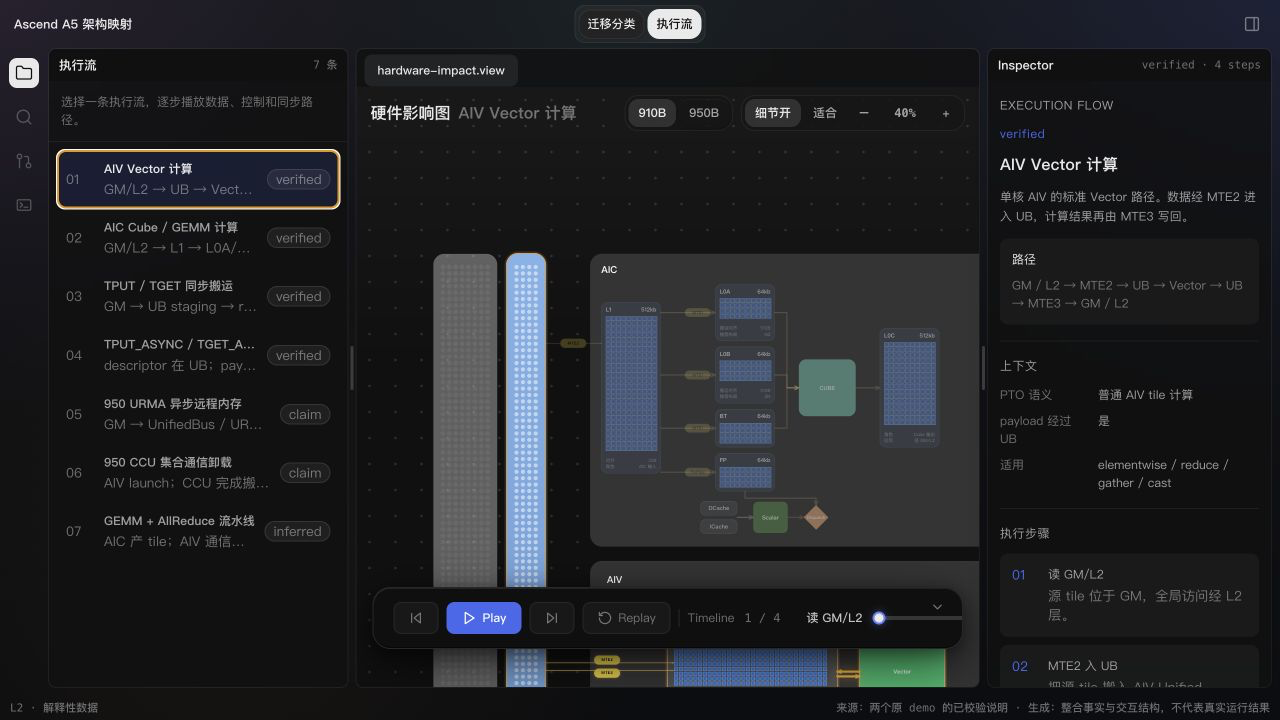
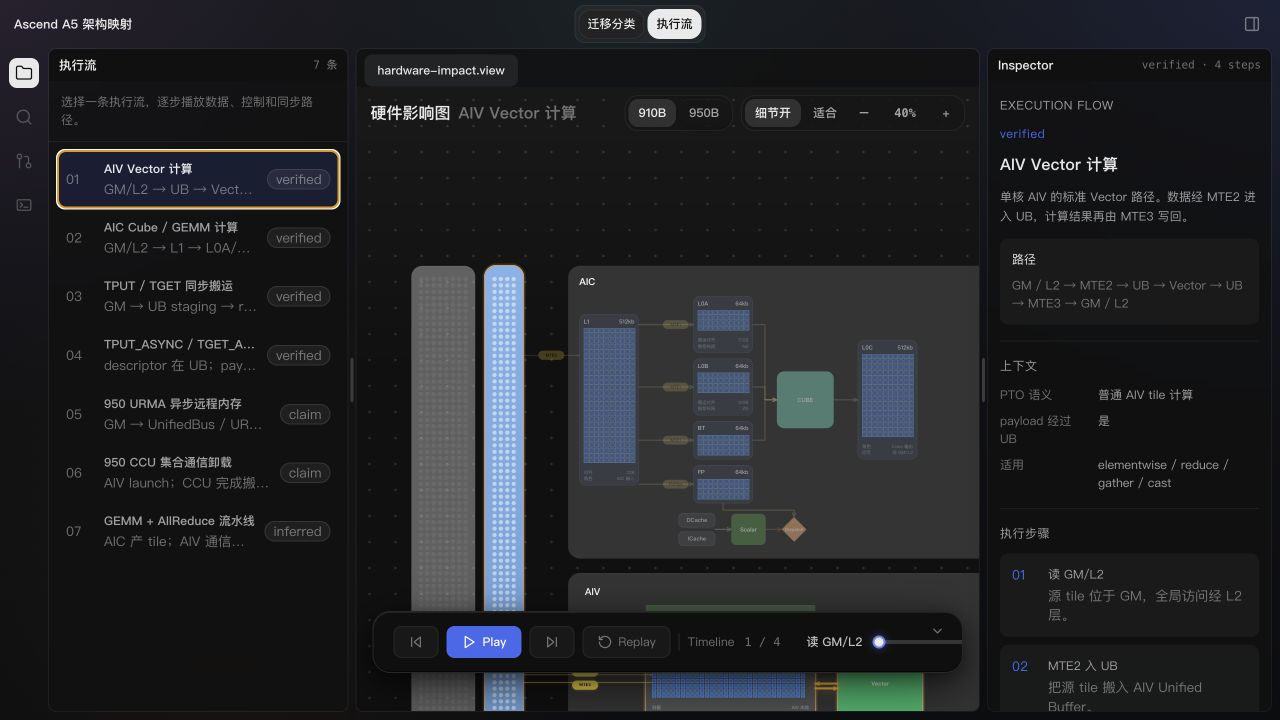
Remove A5 demo footer description

Changed region(s): [[0.3125, 0.3361, 1.0, 1.0], [0.0312, 0.9778, 0.0938, 1.0]]

diff --git a/ascend-hardware-map/index.html b/ascend-hardware-map/index.html
@@ -137,10 +137,6 @@
           </div>
         </div>
       </div>
-      <footer class="pto-ide-frame__status-strip pto-ide-frame__standalone-chrome" aria-label="数据说明">
-        <span>L2 · 解释性数据</span>
-        <span>来源：两个原 demo 的已校验说明 · 生成：整合事实与交互结构，不代表真实运行结果</span>
-      </footer>
     </section>
   </main>
 